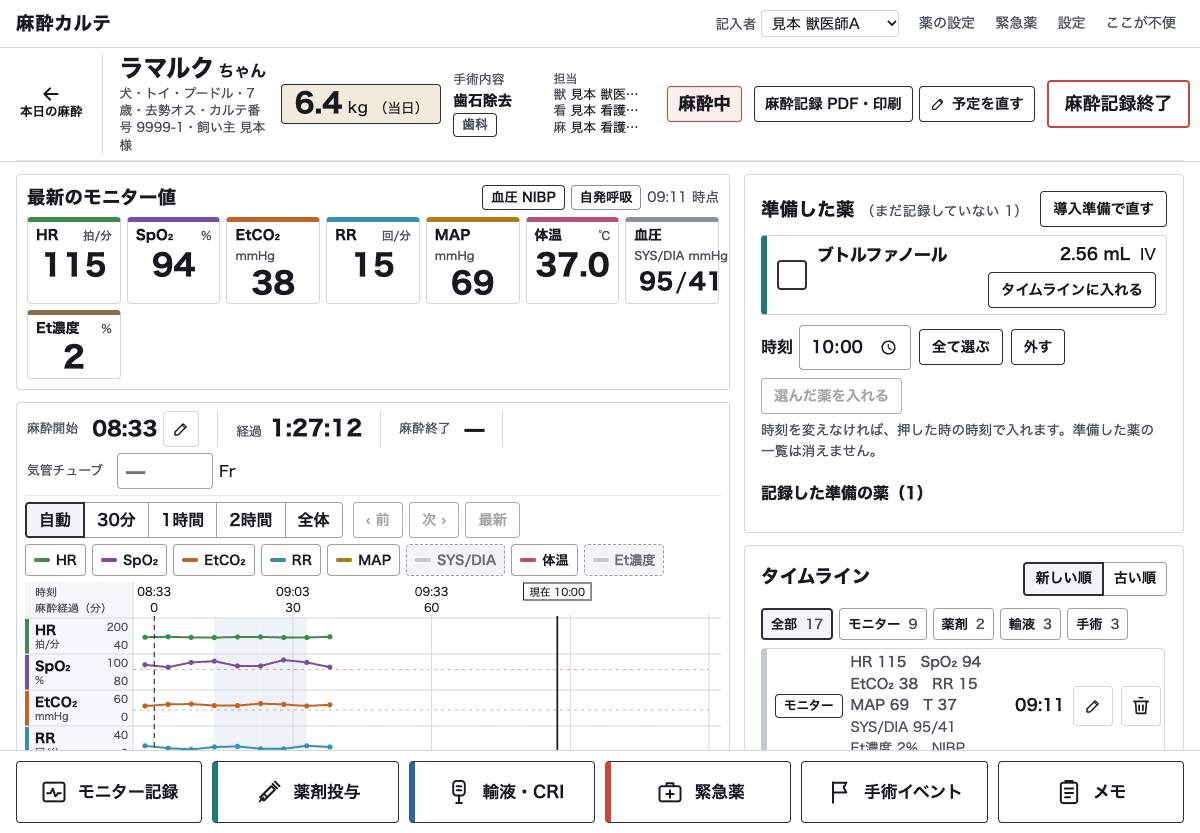
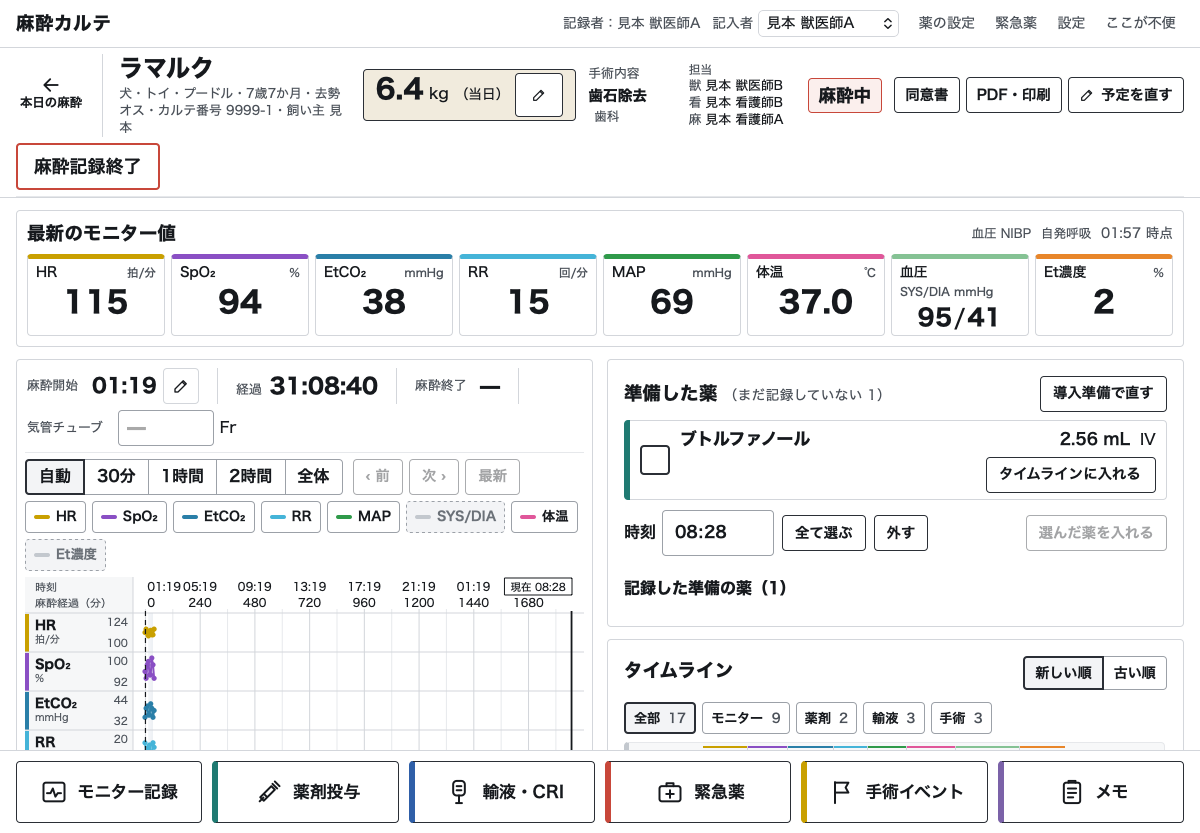
麻酔カルテのガイド：タイムラインの色のカード・種類は小さい灰字・モニターはマス・最新のモニター値は横幅いっぱい・下のボタンの色帯・導入準備は狭い画面で上下（2026-11-25 版）

diff --git a/anesthesia-chart.html b/anesthesia-chart.html
@@ -56,7 +56,7 @@
 
 <h1>麻酔カルテ 使い方ガイド
 <small><a href="classic.html" style="color:#fff;text-decoration:underline">← ガイド一覧へ</a></small>
-<small>獣医師・動物看護師向け ｜ 2026年11月18日版 ｜ 荻窪ツイン動物病院</small></h1>
+<small>獣医師・動物看護師向け ｜ 2026年11月25日版 ｜ 荻窪ツイン動物病院</small></h1>
 
 <div class="card">
 <b>30秒まとめ</b><br>
@@ -171,6 +171,7 @@
 <li>準備したら<b>「準備済み」</b>にチェック。本日の麻酔の札が 未準備 → 途中 → 準備済み に変わります。</li>
 </ol>
 <ul>
+<li>iPad の縦など幅の狭い画面では、<b>予定の薬の表</b>と<b>お気に入りの薬</b>が上下に並びます（表が入りきらないときは表の中を横に動かせます）。</li>
 <li><b>「計算式を表示」</b>の ON／OFF は、<b>その端末が覚えます</b>（次に開いても同じ表示。まとめて準備も同じ）。</li>
 <li>用量の下に小さく<b>「薬剤マスタ 3〜6 mg/kg」</b>のように、院内の共通薬剤マスタで承認された範囲が出ます。外れているときは<span class="chip al">薬剤マスタの範囲外</span>の札が出ます。<b>量は自動では変えません</b>。</li>
 <li><b>液量の表示の決まり</b>：<b>1.0 mL 以上は小数第一位</b>（例 2.1 mL）、<b>1.0 mL 未満は小数第二位</b>（例 0.56 mL）まで出します。</li>
@@ -200,7 +201,7 @@
 <li><b>当日体重</b>は、帯の体重の横の ✎ で入れる・直すことができます（数字を入れて「保存する」・履歴に残る・患者の台帳の体重は書き換えません）。導入薬の量の計算し直しは、導入準備の<b>「薬剤量に反映」</b>から行います。</li>
 <li><b>「麻酔記録開始」</b>を押すと麻酔が始まり、経過時間が進みます。終わったら<b>「麻酔記録終了」</b>（確かめが出ます）。</li>
 <li><b>麻酔開始・麻酔終了の時刻</b>は、時刻の横の ✎ で直せます（少し待つと自動で保存・麻酔時間も計算し直し）。<b>気管チューブ</b>（Fr）も入れるだけで保存されます。</li>
-<li>左上の<b>最新のモニター値</b>は、目安を外れると薄い朱の地と「低め／高め」の札が出ます。</li>
+<li>帯の下の<b>最新のモニター値</b>は横幅いっぱいに1列で並びます。目安を外れると薄い朱の地と「低め／高め」の札が出ます。その下に、左が時間の図・右が準備した薬とタイムラインです。</li>
 </ul>
 <h3>7.2 1本の時間の図</h3>
 <img class="shot" style="max-width:720px" src="anes-timechart.png" alt="時間の図">
@@ -237,10 +238,15 @@
 <tr><td><b>手術イベント</b></td><td>挿管・切皮・抜管など（よく使う／軟部外科／歯科のボタン、または自由に入力）。</td></tr>
 <tr><td><b>メモ</b></td><td>そのときのメモ（時間の図に四角の印で出ます）。</td></tr>
 </table>
+<p class="note">ボタンの左の帯の色は、タイムラインのカードの色と同じです（薬剤＝緑・輸液・CRI＝青・緊急薬＝朱・手術イベント＝黄・メモ＝薄紫）。</p>
 <p class="note">iPad では数字の欄を押すと<b>専用のテンキー</b>が出ます。入力の途中で閉じようとすると「入力内容を破棄しますか？」と確かめます。</p>
 <h3>7.5 タイムライン（直す・消す・絞り込み）</h3>
-<ul style="margin-top:0">
-<li>右の<b>タイムライン</b>に記録が時刻の順で並びます（<b>新しい順／古い順</b>）。</li>
+<img class="shot" style="max-width:420px" src="anes-timeline.png" alt="タイムライン">
+<div class="cap">タイムライン（画面は見本です）</div>
+<ul>
+<li>右の<b>タイムライン</b>に記録が時刻の順で並びます（<b>新しい順／古い順</b>）。左に時刻、その下に小さく種類（モニター・薬剤・輸液・手術・メモ）が出ます。</li>
+<li><b>薬剤＝緑・輸液＝青・手術＝黄・メモ＝薄紫</b>の色のカードで目立ちます。名前は太字、量・経路はその下の行です。</li>
+<li><b>モニター</b>は薄い灰色のカードで、項目ごとのマス（上に項目名・下に値・上の線はモニターの色）に並びます。iPad の横では1回分が1段に収まります。</li>
 <li><b>全部／モニター／薬剤／輸液／手術</b>で絞り込めます。選んだ絞り込みは<b>端末が覚えます</b>。</li>
 <li>各行の ✎ で直す、🗑 で消す（確かめが出ます）。</li>
 <li>別の端末で記録が足されると<b>「新しい記録があります」</b>と出ます。<b>「最新の記録を読み込む」</b>を押したときだけ画面が変わります。</li>
@@ -317,7 +323,7 @@
 
 <div class="imp"><b>⚠ 患者情報の取り扱い：</b>この画面には患者名・飼い主様の名前が出ます。<b>院外で画面を開いたまま席を離れない・画面の写真をSNS等に載せない</b>でください。（このガイドの画像はすべて見本の患者で、実在の患者情報は含みません）</div>
 
-<footer>荻窪ツイン動物病院 ｜ 麻酔カルテ 使い方ガイド（2026年11月18日版）<br>使いにくい点は右上の「ここが不便」から送れます（不明点は院長まで）</footer>
+<footer>荻窪ツイン動物病院 ｜ 麻酔カルテ 使い方ガイド（2026年11月25日版）<br>使いにくい点は右上の「ここが不便」から送れます（不明点は院長まで）</footer>
 </div>
 </body>
 </html>
